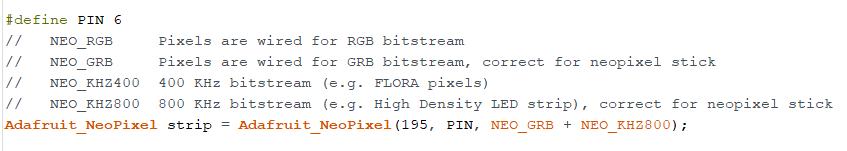
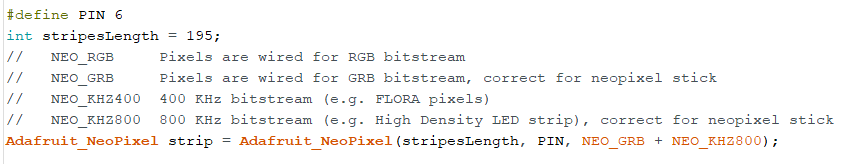
no message

Changed region(s): [[0.0, 0.053, 0.9846, 0.7682], [0.0, 0.7947, 0.9231, 0.9272]]

diff --git a/Word-Clock2/doc/Doc.md b/Word-Clock2/doc/Doc.md
@@ -333,12 +333,13 @@ la striscia di led neopixel all'Arduino.
 #### Illuminazione led stripes
 
 Inizialmente abbiamo dovuto capire il funzionamento delle led stripes e lo abbiamo capito tramite un semplice esempio di codice.
-Innanzitutto é necessario scaricare le librerie necessarie.
+Innanzitutto é necessario scaricare le librerie seguenti.
 
 ![Schema](Allegati/libreriestriscialed.PNG)
 
-In seguito abbiamo dovuto creare la variabile per definire il PIN d'uscita del segnale per il controllo delle stripes e abbiamo
-anche creato una variabile che servirà per la gestione dell'accensione dei vari led.
+In seguito abbiamo dovuto creare la variabile per definire il PIN d'uscita del segnale per il controllo delle stripes, la variabile
+contenente la lunghezza della striscia (misurata con il numero totale dei led presenti su di essa) e infine abbiamo creato una 
+variabile che servirà per la gestione dell'accensione dei vari led.
 
 ![Schema](Allegati/variabiliProvaneopixel.PNG)
 
